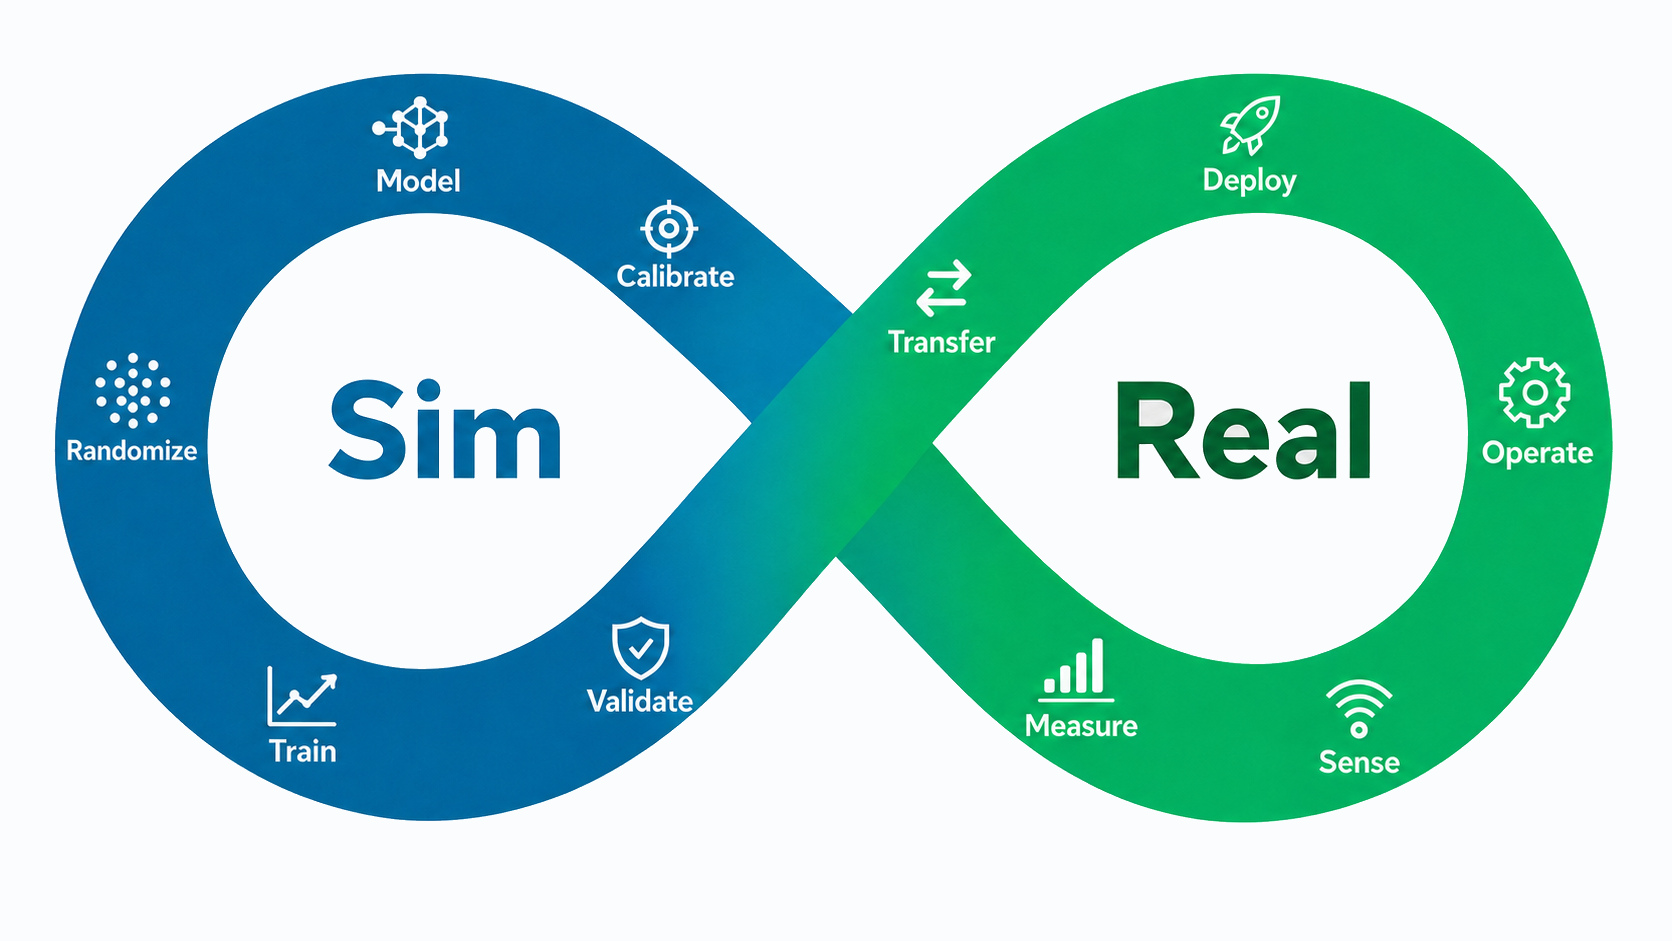
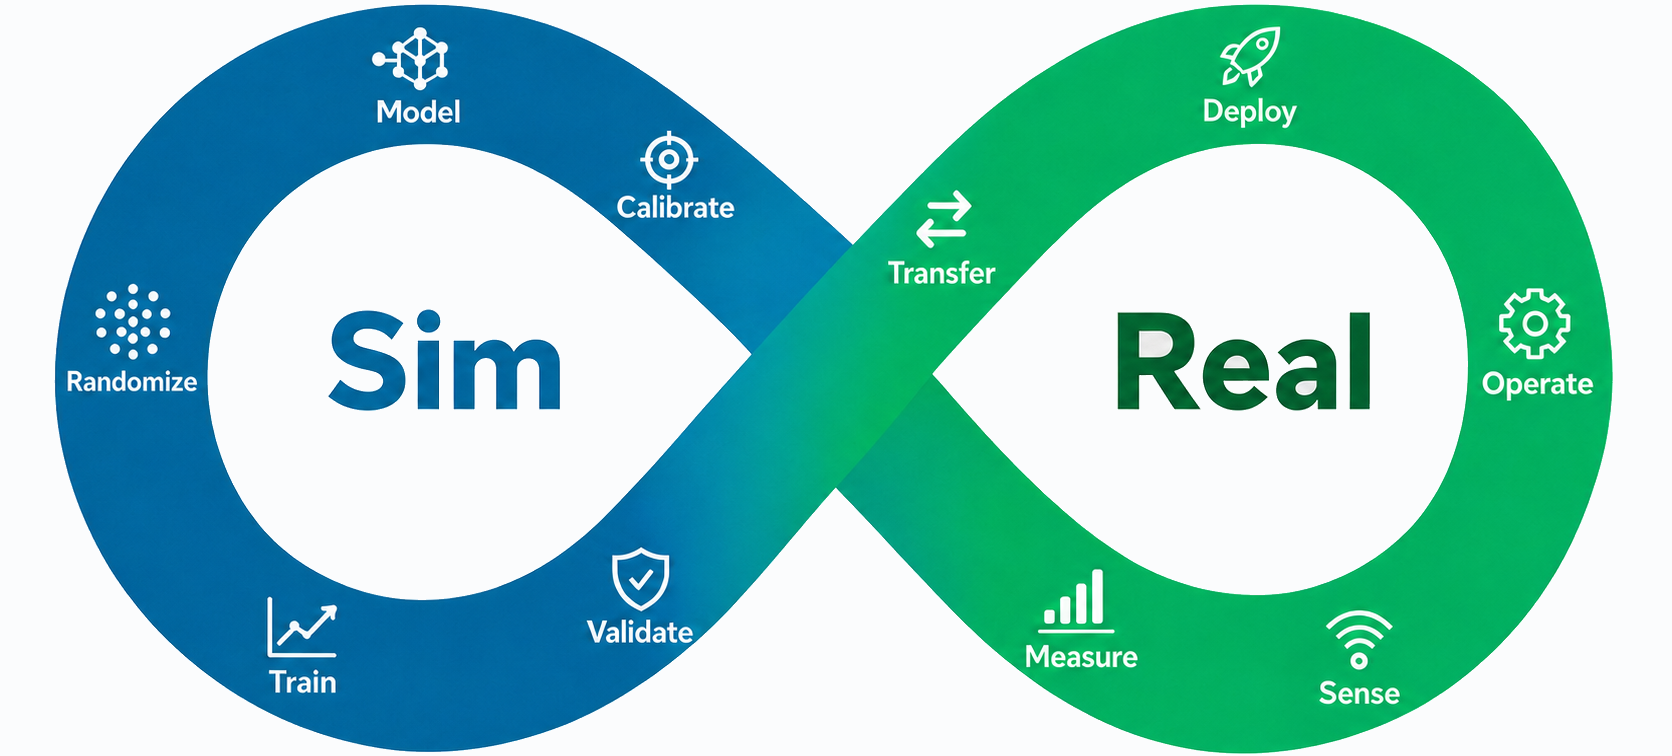
small changes

diff --git a/dashboard/src/components/Navigation.tsx b/dashboard/src/components/Navigation.tsx
@@ -32,29 +32,25 @@ const GLOBAL_NAV_ITEMS: NavItem[] = [
 const HOME_SECTION_KEYS = ["products", "solutions", "customers"] as const;
 type HomeSectionKey = (typeof HOME_SECTION_KEYS)[number];
 
-const PRODUCT_NAV_ITEMS: Array<NavItem & { subtitle: string }> = [
+const PRODUCT_NAV_ITEMS: NavItem[] = [
   {
     key: "robodatahub",
     label: "RoboDataHub",
-    subtitle: "Dataset Catalog",
     href: "/robodatahub",
   },
   {
     key: "roboeyeview",
     label: "RoboAnnotator",
-    subtitle: "Visual Intelligence",
     href: "/roboannotator",
   },
   {
     key: "robohandmotion",
     label: "RoboHandMotion",
-    subtitle: "Dexterity Data",
     href: "/robohandmotion",
   },
   {
     key: "robotaskmanipulator",
     label: "RoboTaskManipulator",
-    subtitle: "Task Execution",
     href: "/robotaskmanipulator",
   },
 ];
@@ -93,9 +89,6 @@ function ProductMenu({
           <div className="text-[10px] font-bold uppercase tracking-[0.18em] text-primary">
             Products
           </div>
-          <div className="mt-1 text-xs leading-relaxed text-slate-500">
-            Move directly between DataraAI products.
-          </div>
         </div>
 
         <DropdownMenuSeparator className="my-1 bg-slate-200" />
@@ -114,12 +107,7 @@ function ProductMenu({
               }`}
             >
               <Link to={product.href} onClick={onNavigate} aria-current={isCurrent ? "page" : undefined}>
-                <span className="min-w-0 flex-1">
-                  <span className="block truncate text-sm font-bold">{product.label}</span>
-                  <span className="mt-0.5 block truncate text-[10px] uppercase tracking-[0.14em] opacity-65">
-                    {product.subtitle}
-                  </span>
-                </span>
+                <span className="min-w-0 flex-1 truncate text-sm font-bold">{product.label}</span>
                 {isCurrent && <Check className="ml-3 h-4 w-4 shrink-0" />}
               </Link>
             </DropdownMenuItem>